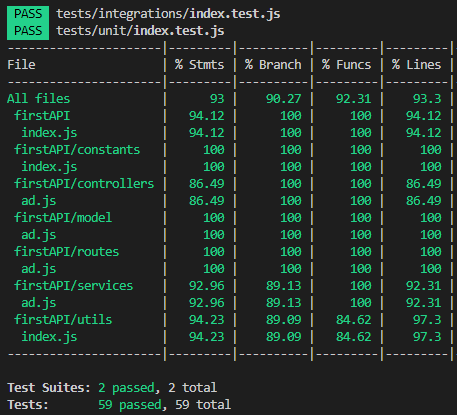
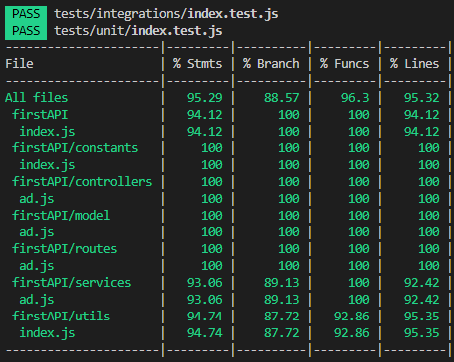
refactor

Changed region(s): [[0.0, 0.0, 1.0, 1.0]]

diff --git a/services/ad.js b/services/ad.js
@@ -2,8 +2,18 @@ const mongoose = require('mongoose')
 const moment = require('moment')
 
 const Ads = require('../model/ad')
-const validator = require('../utils')
-const { PAGE_SIZE, DICTIONARY, PARSED_OBJECTS, DATE_FORMAT } = require('../constants')
+const {
+  ValidationError,
+  queryAdValidator,
+  querySortValidator,
+  updateAdlidator
+} = require('../utils')
+const {
+  PAGE_SIZE,
+  DICTIONARY,
+  PARSED_OBJECTS,
+  DATE_FORMAT
+} = require('../constants')
 
 exports.getAd = async (adId, query) => {
   try {
@@ -11,18 +21,18 @@ exports.getAd = async (adId, query) => {
       if (mongoose.Types.ObjectId.isValid(adId)) {
         const ad = await Ads.findById(adId, PARSED_OBJECTS.withoutParams)
         if (ad !== null) { return ad }
-        else { throw new validator.ValidationError(DICTIONARY.errors.adNotFound) }
-      } else { throw new validator.ValidationError(DICTIONARY.errors.badId) }
+        else { throw new ValidationError(DICTIONARY.errors.adNotFound) }
+      } else { throw new ValidationError(DICTIONARY.errors.badId) }
     } else if (query.fields && adId && Object.keys(query).length === 1) {
       if (mongoose.Types.ObjectId.isValid(adId)) {
-        const isValid = validator.queryAdValidator(query.fields)
+        const isValid = queryAdValidator(query.fields)
         if (isValid) {
           const ad = await Ads.findById(adId, isValid)
           if (ad !== null) { return ad }
-          else { throw new validator.ValidationError(DICTIONARY.errors.adNotFound) }
-        } else { throw new validator.ValidationError(DICTIONARY.errors.badFields) }
-      } else { throw new validator.ValidationError(DICTIONARY.errors.badId) }
-    } else { throw new validator.ValidationError(DICTIONARY.errors.badRequest) }
+          else { throw new ValidationError(DICTIONARY.errors.adNotFound) }
+        } else { throw new ValidationError(DICTIONARY.errors.badFields) }
+      } else { throw new ValidationError(DICTIONARY.errors.badId) }
+    } else { throw new ValidationError(DICTIONARY.errors.badRequest) }
   } catch (err) {
     throw err
   }
@@ -32,7 +42,7 @@ exports.getAds = async query => {
   try {
     if (Object.keys(query).length === 2 && query.sort && query.page) {
       if (+query.page > 0) {
-        const isValid = validator.querySortValidator(query)
+        const isValid = querySortValidator(query)
         if (isValid && isValid.hasOwnProperty('date')) {
           const ads = await Ads
             .find({}, PARSED_OBJECTS.withDate)
@@ -46,7 +56,7 @@ exports.getAds = async query => {
               mainUrl: a.mainUrl,
               date: moment(a.date).format(DATE_FORMAT)
             }))
-          } else { throw new validator.ValidationError(DICTIONARY.errors.noContentOnPage) }
+          } else { throw new ValidationError(DICTIONARY.errors.noContentOnPage) }
         } else if (isValid) {
           const ads = await Ads
             .find({}, PARSED_OBJECTS.withoutParams)
@@ -54,10 +64,10 @@ exports.getAds = async query => {
             .limit(PAGE_SIZE)
             .sort(isValid)
           if (ads.length > 0) { return ads }
-          else { throw new validator.ValidationError(DICTIONARY.errors.noContentOnPage) }
-        } else { throw new validator.ValidationError(DICTIONARY.errors.badSortFields) }
-      } else { throw new validator.ValidationError(DICTIONARY.errors.badPage) }
-    } else { throw new validator.ValidationError(DICTIONARY.errors.badRequest) }
+          else { throw new ValidationError(DICTIONARY.errors.noContentOnPage) }
+        } else { throw new ValidationError(DICTIONARY.errors.badSortFields) }
+      } else { throw new ValidationError(DICTIONARY.errors.badPage) }
+    } else { throw new ValidationError(DICTIONARY.errors.badRequest) }
   } catch (err) {
     throw err
   }
@@ -75,13 +85,13 @@ exports.createAd = async ad => {
 exports.updateAd = async (adId, body) => {
   try {
     if (mongoose.Types.ObjectId.isValid(adId)) {
-      const isValid = validator.updateAdlidator(body)
+      const isValid = updateAdlidator(body)
       if (isValid) {
         const newAd = await Ads.findOneAndUpdate({ _id: adId }, body, { new: true })
         if (newAd !== null) { return newAd }
-        else { throw new validator.ValidationError(DICTIONARY.errors.adNotFound) }
-      } else { throw new validator.ValidationError(DICTIONARY.errors.badBody) }
-    } else { throw new validator.ValidationError(DICTIONARY.errors.badId) }
+        else { throw new ValidationError(DICTIONARY.errors.adNotFound) }
+      } else { throw new ValidationError(DICTIONARY.errors.badBody) }
+    } else { throw new ValidationError(DICTIONARY.errors.badId) }
   } catch (err) {
     throw err
   }
@@ -92,8 +102,8 @@ exports.deleteAd = async adId => {
     if (mongoose.Types.ObjectId.isValid(adId)) {
       const deleteAd = await Ads.findOneAndDelete({ _id: adId })
       if (deleteAd !== null) { return deleteAd._id }
-      else { throw new validator.ValidationError(DICTIONARY.errors.adNotFound) }
-    } else { throw new validator.ValidationError(DICTIONARY.errors.badId) }
+      else { throw new ValidationError(DICTIONARY.errors.adNotFound) }
+    } else { throw new ValidationError(DICTIONARY.errors.badId) }
   } catch (err) {
     throw err
   }

diff --git a/model/ad.js b/model/ad.js
@@ -1,5 +1,6 @@
 const { Schema, model } = require('mongoose')
-const validator = require('../utils')
+
+const { shemaArrayValidator, shemaUrlValidator } = require('../utils')
 const { DICTIONARY } = require('../constants')
 
 const adsSchema = new Schema({
@@ -25,12 +26,12 @@ const adsSchema = new Schema({
   imgURLs: {
     type: [String],
     validate: {
-      validator: validator.shemaArrayValidator,
+      validator: shemaArrayValidator,
       message: DICTIONARY.schema.imgURLs
     }
   }
 })
 
-adsSchema.path('imgURLs').validate(validator.shemaUrlValidator, DICTIONARY.schema.validationUrl)
+adsSchema.path('imgURLs').validate(shemaUrlValidator, DICTIONARY.schema.validationUrl)
 
 module.exports = model('Ads', adsSchema)

diff --git a/routes/ad.js b/routes/ad.js
@@ -1,4 +1,5 @@
 const express = require('express')
+
 const adControler = require('../controllers/ad.js')
 
 const router = express.Router()
